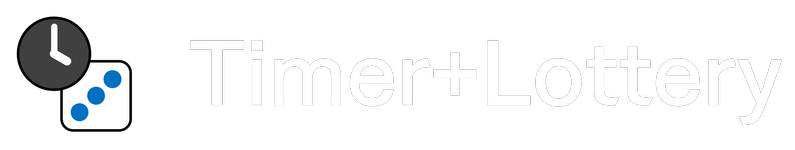
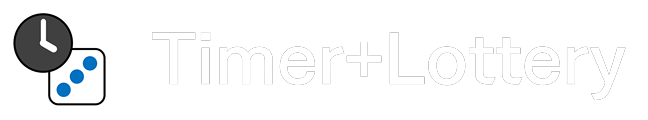
Title image optimization.

diff --git a/PROJECT/style.css b/PROJECT/style.css
@@ -5,7 +5,7 @@
 /* Area Specific */
 	/* Header */
 	#Ctrl_Title {
-		width: 212px;
+		width: 216px;
 	}
 	#Ctrl_Nav {
 		width: 600px;
